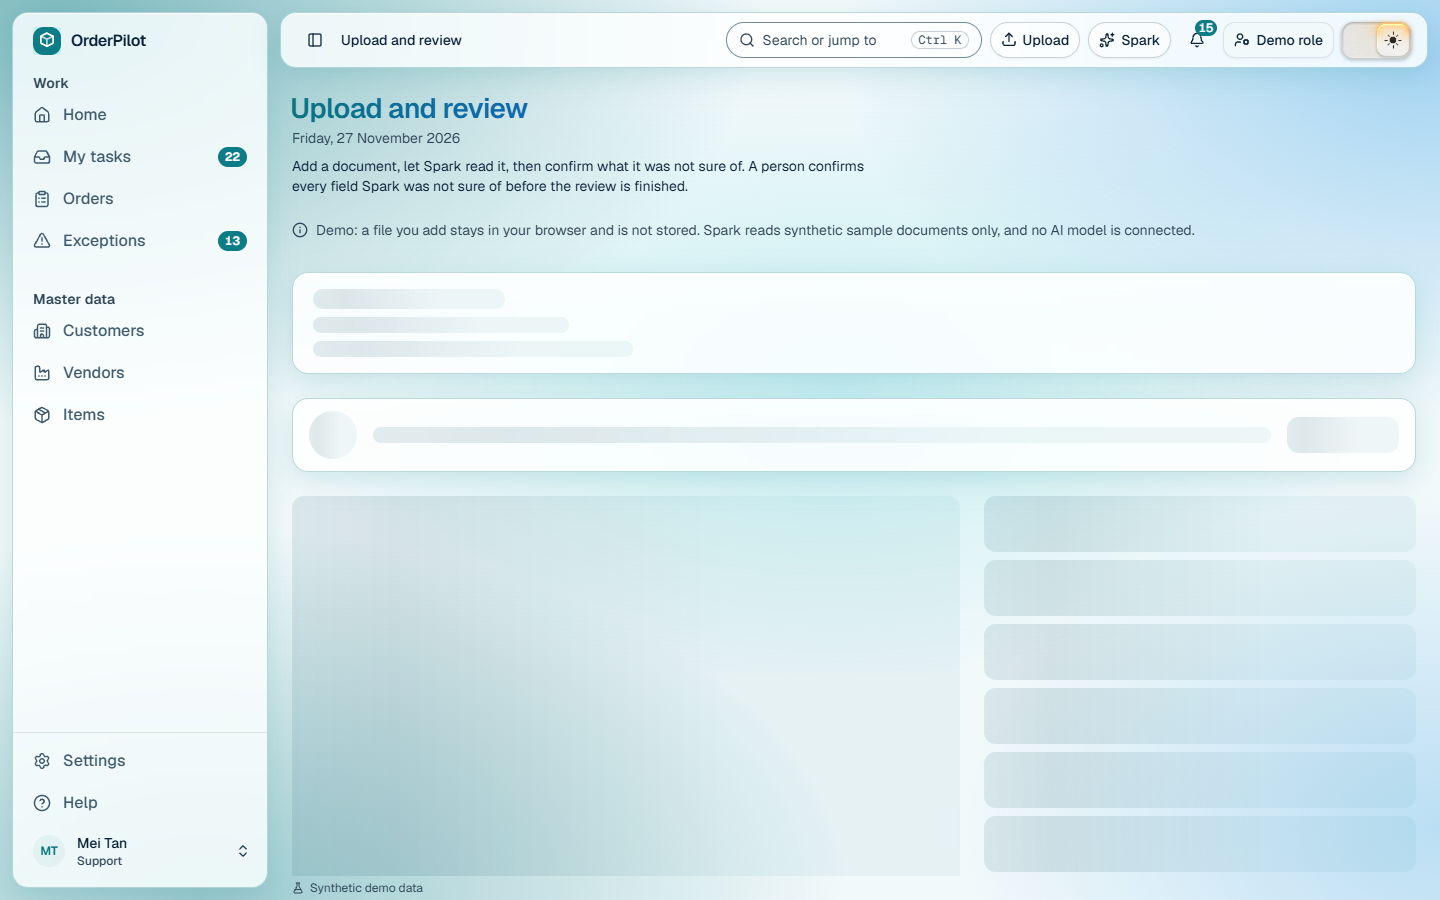
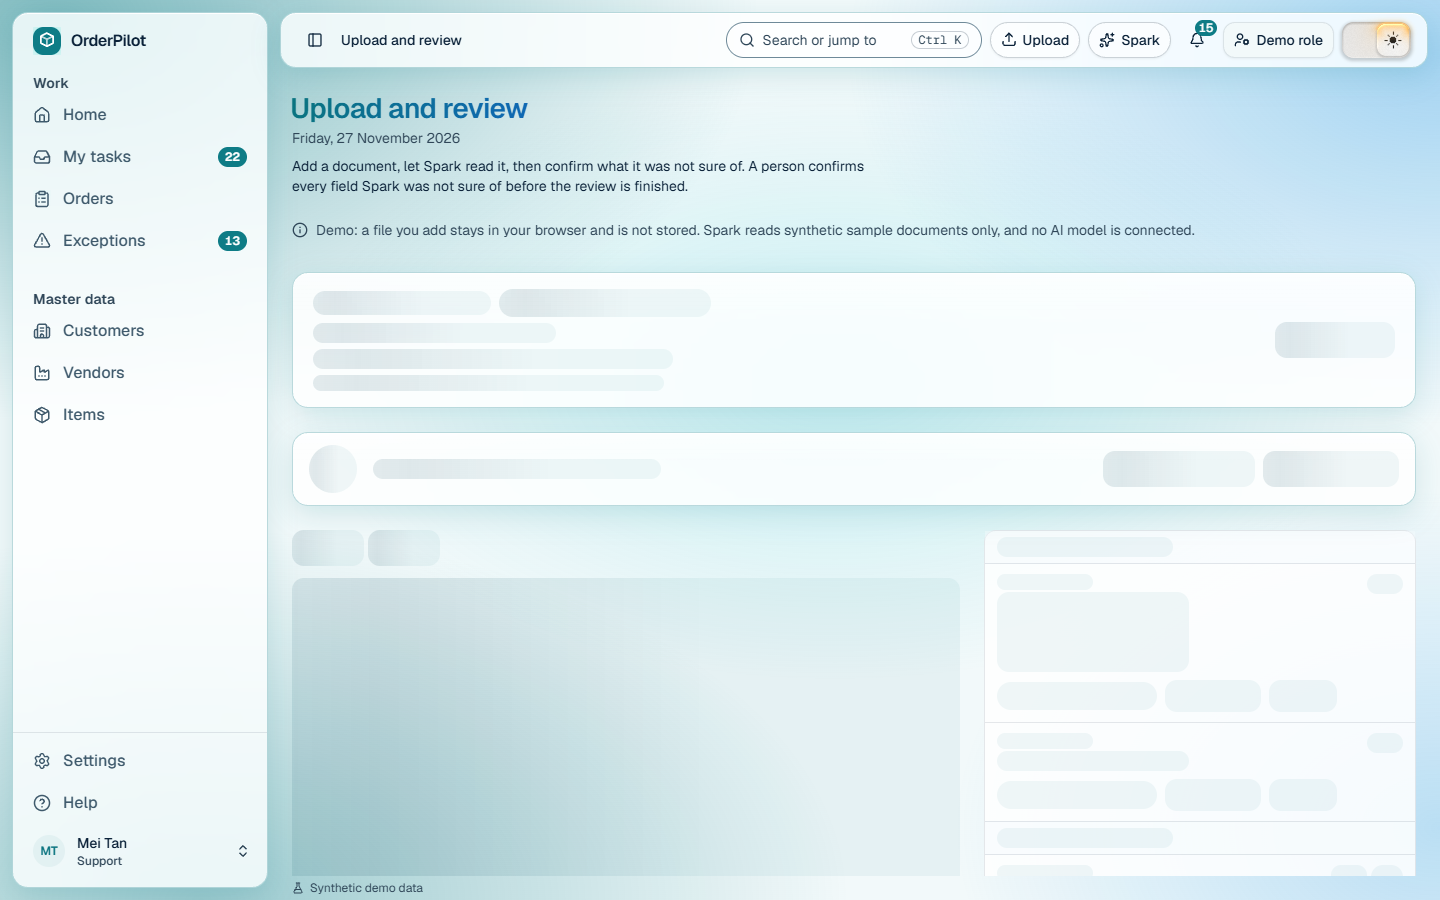
docs: retake the loading pictures after the skeleton rule and the shaped Upload wait

Changed region(s): [[0.1875, 0.3422, 1.0, 0.9956], [0.2188, 0.5911, 0.3438, 0.6533], [0.3438, 0.3111, 0.4062, 0.3733]]

diff --git a/docs/design/screenshots/platform/loading/README.md b/docs/design/screenshots/platform/loading/README.md
@@ -1,12 +1,18 @@
 # Loading skeletons, issue 426
 
-Pictures of the skeleton states, taken from a Docker build of commit `181cfbe5` (the review site at http://localhost:4472, with fresh synthetic data, labelled "Synthetic demo data" in every picture). All pictures were taken in the installed Microsoft Edge (version 158.0.4370.33, driven by Playwright with `channel: "msedge"`, headless), signed in as the demo persona Support (Management for Insights, which has no picture here).
+Pictures of the skeleton states, taken from a Docker build of commit `0adacffa` (the review site at http://localhost:4472, with fresh synthetic data, labelled "Synthetic demo data" in every picture). They were taken in the installed Microsoft Edge (version 158.0.4370.33, driven by Playwright with `channel: "msedge"`, headless), signed in as the demo persona Support (Management for Insights).
+
+The pictures of Orders and of the order page were taken from the earlier build `181cfbe5`. Neither page's skeleton has changed since, so they are kept as they are.
+
+## The rule the pictures show
+
+A block that stands for a page head, a card, a tile, a chart or a panel shimmers. The rows of a table or a list, and the cards of a board, stay still. A table is never animated while it is in use, and a wall of moving rows is not calm.
 
 ## How the wait was held
 
 Each picture is a page whose data requests were held back with `page.route`, so that the skeleton stays on screen:
 
-- Home, Orders and the order page (SO-0110): every request under `/api/v1/` except sign-in, the shell's own badges (tasks, exceptions, reminders) and notices.
+- Home, Orders, the order page (SO-0110), Insights and the customer record (C-0001): every request under `/api/v1/` except sign-in, the shell's own badges (tasks, exceptions, reminders) and notices. On Home, "My tasks", "Overdue" and "Open exceptions" show numbers in the pictures: their counts arrived despite the hold (not checked why), and only the two tiles whose counts were held ("Documents to confirm", "Open orders") show their blocks.
 - Upload: a file named `po-boxed-so-0102.pdf` was added, Read with Spark was pressed, and the request for `/demo-documents/po-boxed-so-0102.json` was held.
 
 The analytics consent card was dismissed in the browser's local storage before each load, so that it does not cover the foot of the page. The scripts that took them are kept outside the repository.
@@ -15,18 +21,20 @@ The analytics consent card was dismissed in the browser's local storage before e
 
 Each name is `<page>-<size>-<theme>.png`. Desktop is 1440 by 900. Phone is 390 by 844 with touch.
 
-| Pictures                                          | What they show                                                                                                                                                                         |
-| ------------------------------------------------- | -------------------------------------------------------------------------------------------------------------------------------------------------------------------------------------- |
-| `home-desktop-light.png`, `home-desktop-dark.png` | Home while its data is held. The timeline rows and the number tiles are still grey blocks (lists). The "Orders in each step" card at the foot is a card skeleton and carries the band. |
-| `home-phone-light.png`, `home-phone-dark.png`     | The first screen of Home on a phone. The card with the band is below the fold here, so this picture shows only still blocks.                                                           |
-| `orders-desktop-*.png`, `orders-phone-*.png`      | The Orders table while its rows load. Every row is a still block, as the story asks for tables. No band.                                                                               |
-| `order-desktop-*.png`, `order-phone-*.png`        | The order page SO-0110 while its data is held. Five card and heading blocks, all with the band.                                                                                        |
-| `upload-desktop-*.png`, `upload-phone-*.png`      | Upload's wait for the demo document: the head card, the progress card with its ring, the page and the field rows, all with the band.                                                   |
-| `band-moving-strip.png`                           | Three frames of the band moving across Upload's page block, light above dark, about 300 ms apart. The caption of each frame is the band's translation as the browser computed it.      |
-| `upload-desktop-light-reduced-motion.png`         | The same wait with reduced motion on. The band is removed: the blocks are plain grey.                                                                                                  |
+| Pictures                                          | What they show                                                                                                                                                                                     |
+| ------------------------------------------------- | -------------------------------------------------------------------------------------------------------------------------------------------------------------------------------------------------- |
+| `home-desktop-light.png`, `home-desktop-dark.png` | Home while its data is held. The two held count tiles and the "Orders in each step" card shimmer; the timeline rows are still (a list).                                                            |
+| `home-phone-light.png`, `home-phone-dark.png`     | The first screen of Home on a phone: the held count tile shimmers, the timeline rows are still.                                                                                                    |
+| `insights-desktop-*.png`, `insights-phone-*.png`  | Insights while its measures load: five tile blocks and the chart card, all shimmering.                                                                                                             |
+| `record-desktop-*.png`, `record-phone-*.png`      | A customer record (C-0001): the page head, the facts block and two section cards, all shimmering.                                                                                                  |
+| `orders-desktop-*.png`, `orders-phone-*.png`      | The Orders table while its rows load. Every row is a still block. No band.                                                                                                                         |
+| `order-desktop-*.png`, `order-phone-*.png`        | The order page SO-0110 while its data is held. Five card and heading blocks, all with the band.                                                                                                    |
+| `upload-desktop-*.png`, `upload-phone-*.png`      | Upload's wait for the demo document, shaped like the review: the head card and the progress card (shimmering), the pager and the page (shimmering), and the list of fields, whose rows stay still. |
+| `band-moving-strip.png`                           | Three frames of the band moving across the top of Upload's page block, light above dark, about 300 ms apart. The caption of each frame is the band's translation as the browser computed it.       |
+| `upload-desktop-light-reduced-motion.png`         | The same wait with reduced motion on. The band is removed: the blocks are plain grey.                                                                                                              |
 
 ## What the pictures cannot show
 
 - Motion. A picture is one instant. The band is only faint light, so a single frame shows a soft lighter patch at best. The strip shows it in three places, and the numbers in the pull request (computed animation, speed) are the proof of the movement.
 - The glide of a progress bar. The file row's bar (`ProgressBar`) has no picture, because a local file is read in milliseconds and no frame with the bar between 0 and 100 was caught.
-- The sizes of the real content. The pictures show the skeleton, not the page that replaces it.
+- The sizes of the real content. The pictures show the skeleton, not the page that replaces it. The pull request gives the measured heights of the Upload wait against the review.
